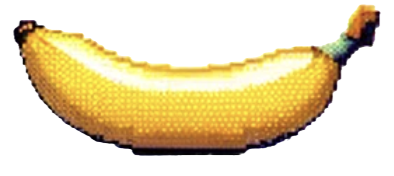
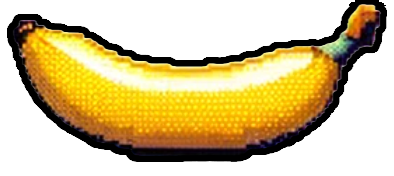
fix banana graphic to be the right size and rotation around the center

diff --git a/view.js b/view.js
@@ -1,7 +1,9 @@
 let bananaImage;
 
 function preload() {
-  bananaImage = loadImage('/images/banana.png');
+  bananaImage = loadImage('/images/banana.png', (img) => {
+    img.resize(30, 0); // Resize to a width of 30 and auto-adjust height to maintain aspect ratio
+  });
 }
 class GorillasView {
   constructor(game) {
@@ -44,7 +46,6 @@ class GorillasView {
   async drawBananaTrajectory(startX, startY, angle, power) {
     return new Promise((resolve) => {
       const g = 0.0981;
-
       const trajectory = computeTrajectory(
         this.game,
         startX,
@@ -56,22 +57,30 @@ class GorillasView {
       );
 
       let trajectoryIndex = 0;
+      let rotationAngle = 0; // Initialize rotation angle
       let hit = false;
 
       const animateThrow = () => {
-        background(220); // Clear the canvas
+        background(220);
         this.drawCityscape();
         this.drawGorillas();
 
         if (trajectoryIndex < trajectory.length) {
           const position = trajectory[trajectoryIndex];
-          this.drawBanana(position.x, position.y); // Draw the banana at the current position (x, y
+
+          push(); // Save current drawing settings
+          translate(position.x, position.y); // Move the origin to the banana's current position
+          rotate(rotationAngle); // Rotate the drawing around the new origin
+          image(bananaImage, -bananaImage.width / 2, -bananaImage.height / 2); // Draw the banana centered around the new origin
+          pop(); // Restore drawing settings
+
+          rotationAngle += radians(10); // Increment the rotation angle
 
           // Check for collisions
           hit = this.game.checkCollision(position.x, position.y);
           if (hit) {
             this.showExplosion(position.x, position.y);
-            resolve({ hit, position }); // Return the position of the hit
+            resolve({ hit, position });
           } else {
             trajectoryIndex++;
             requestAnimationFrame(animateThrow);
@@ -81,7 +90,7 @@ class GorillasView {
         }
       };
 
-      animateThrow(); // Start the animation loop
+      animateThrow();
     });
   }
 

diff --git a/constants.js b/constants.js
@@ -1,5 +1,5 @@
 const TIME_INCREMENT = 0.1; // Adjust this value to change the simulation speed
-const POWER_FACTOR = 0.1;
+const POWER_FACTOR = 0.5;
 const POWER_SCALE = 10; // Adjust this value to change the sensitivity
 const MAX_TIME = 1000;
 const PULSE_SPEED = 3; // Adjust for faster or slower pulsating
